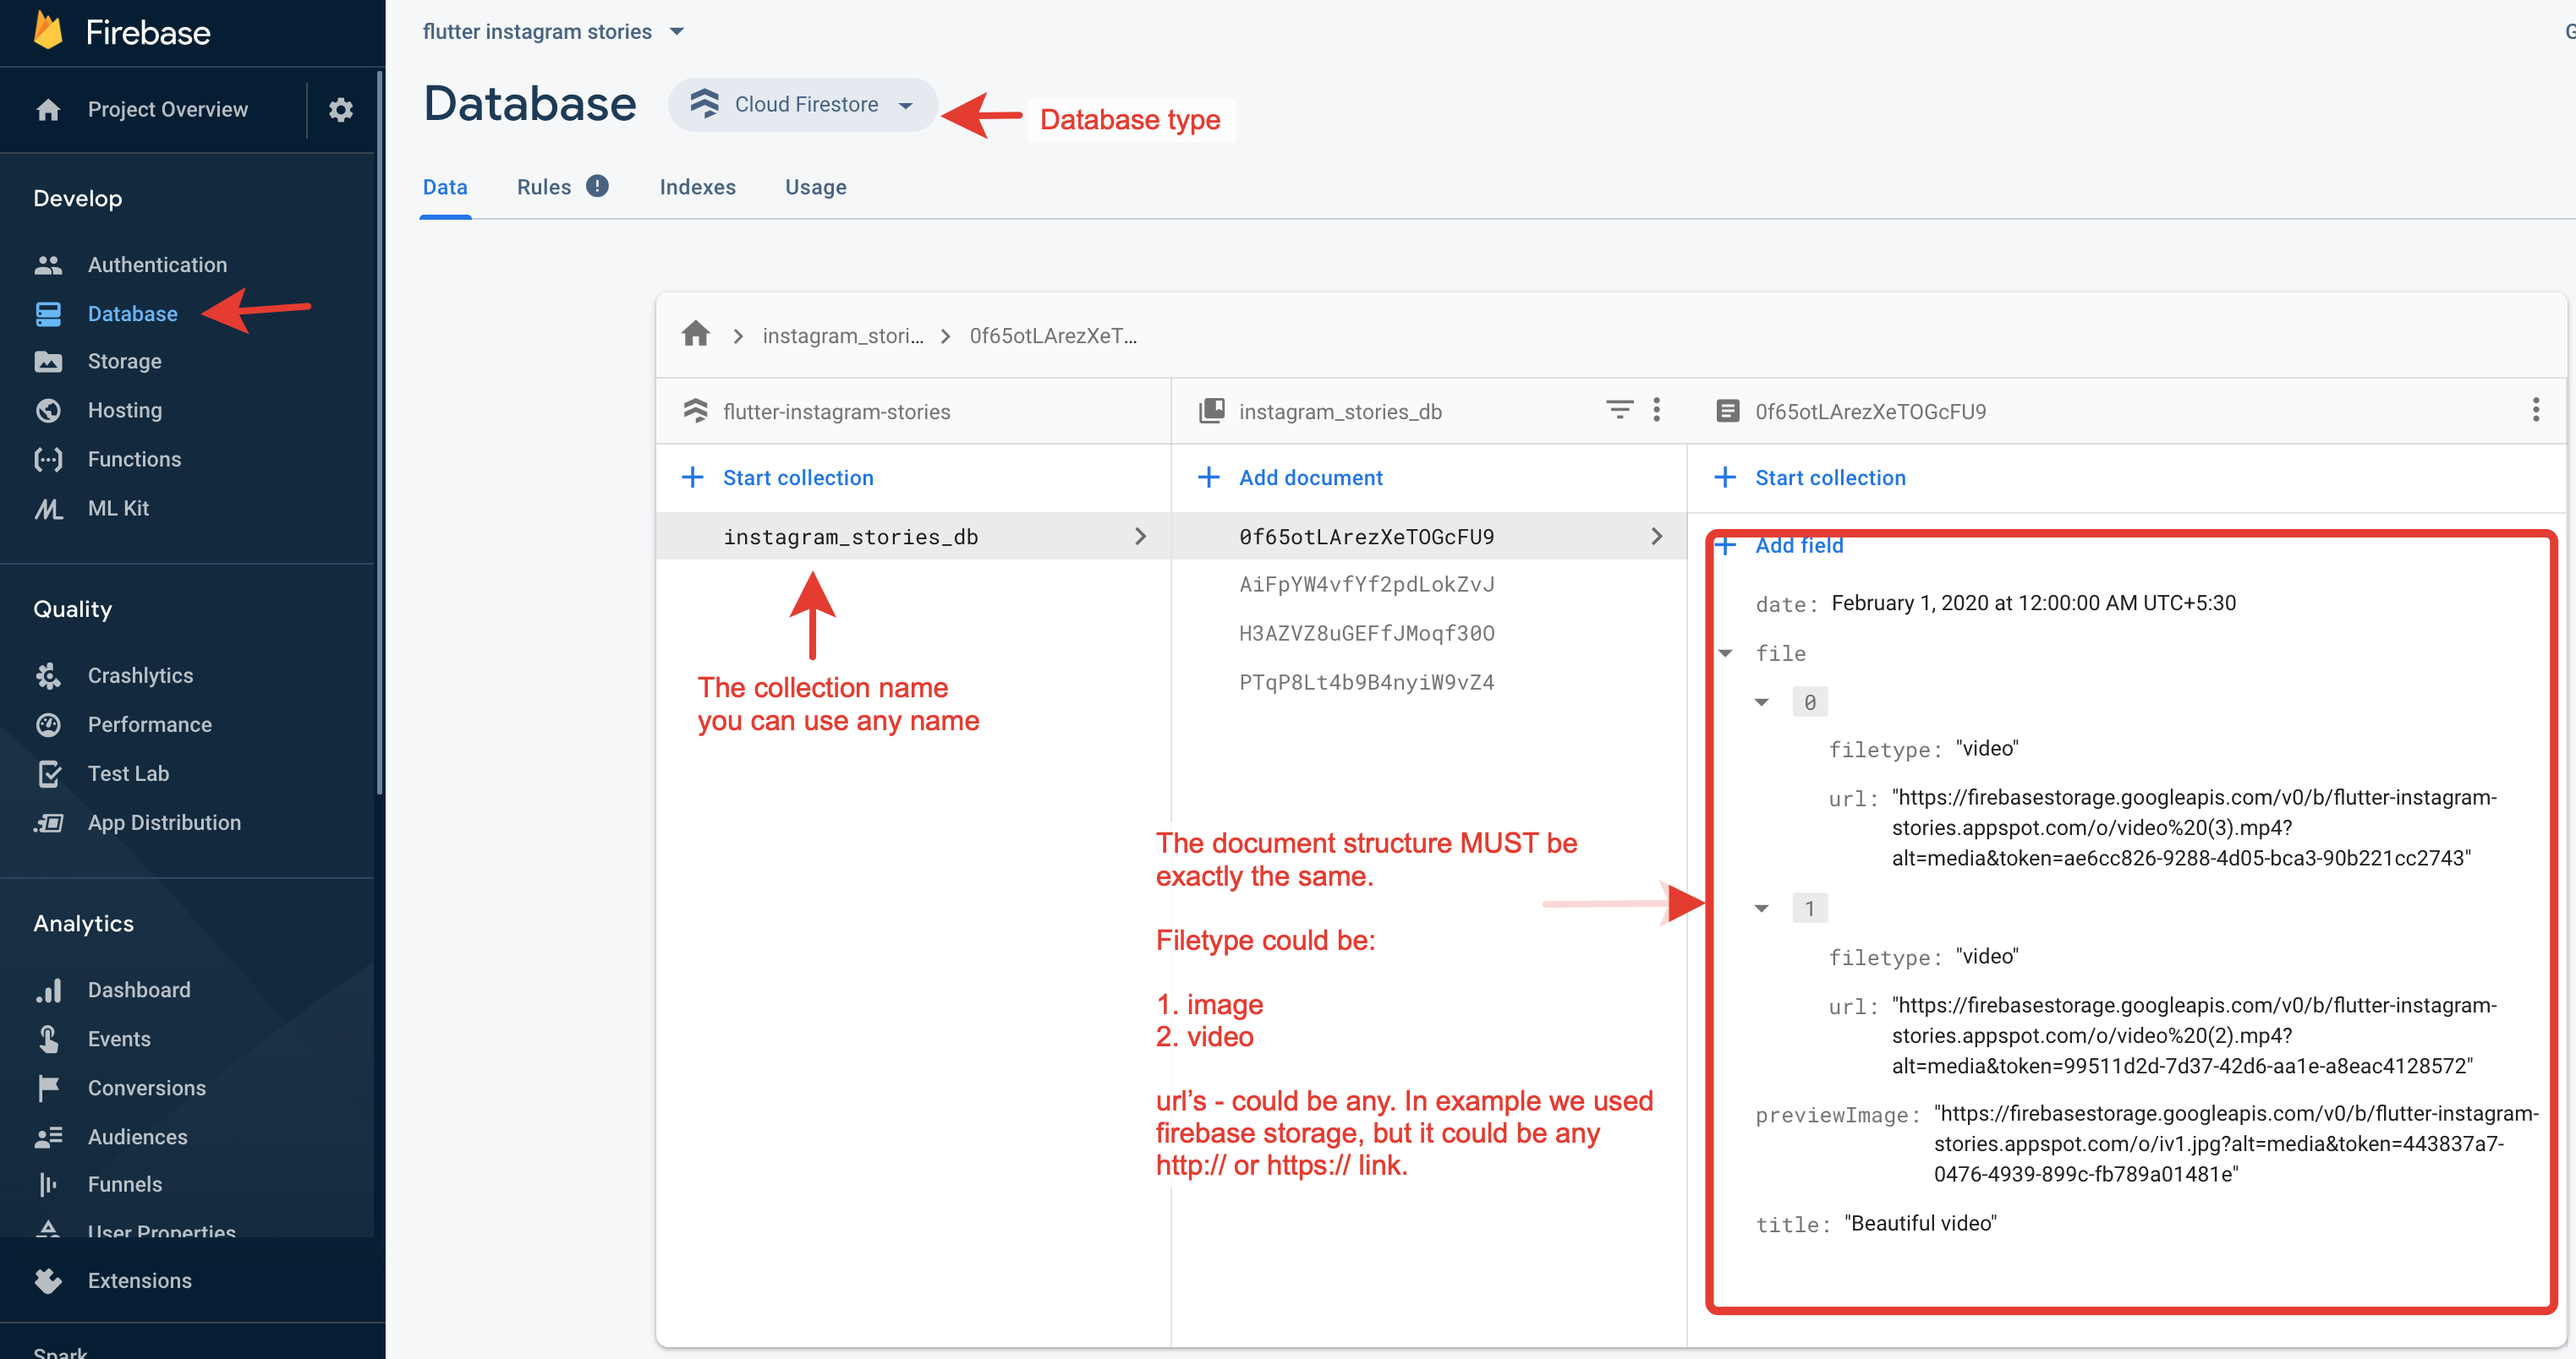
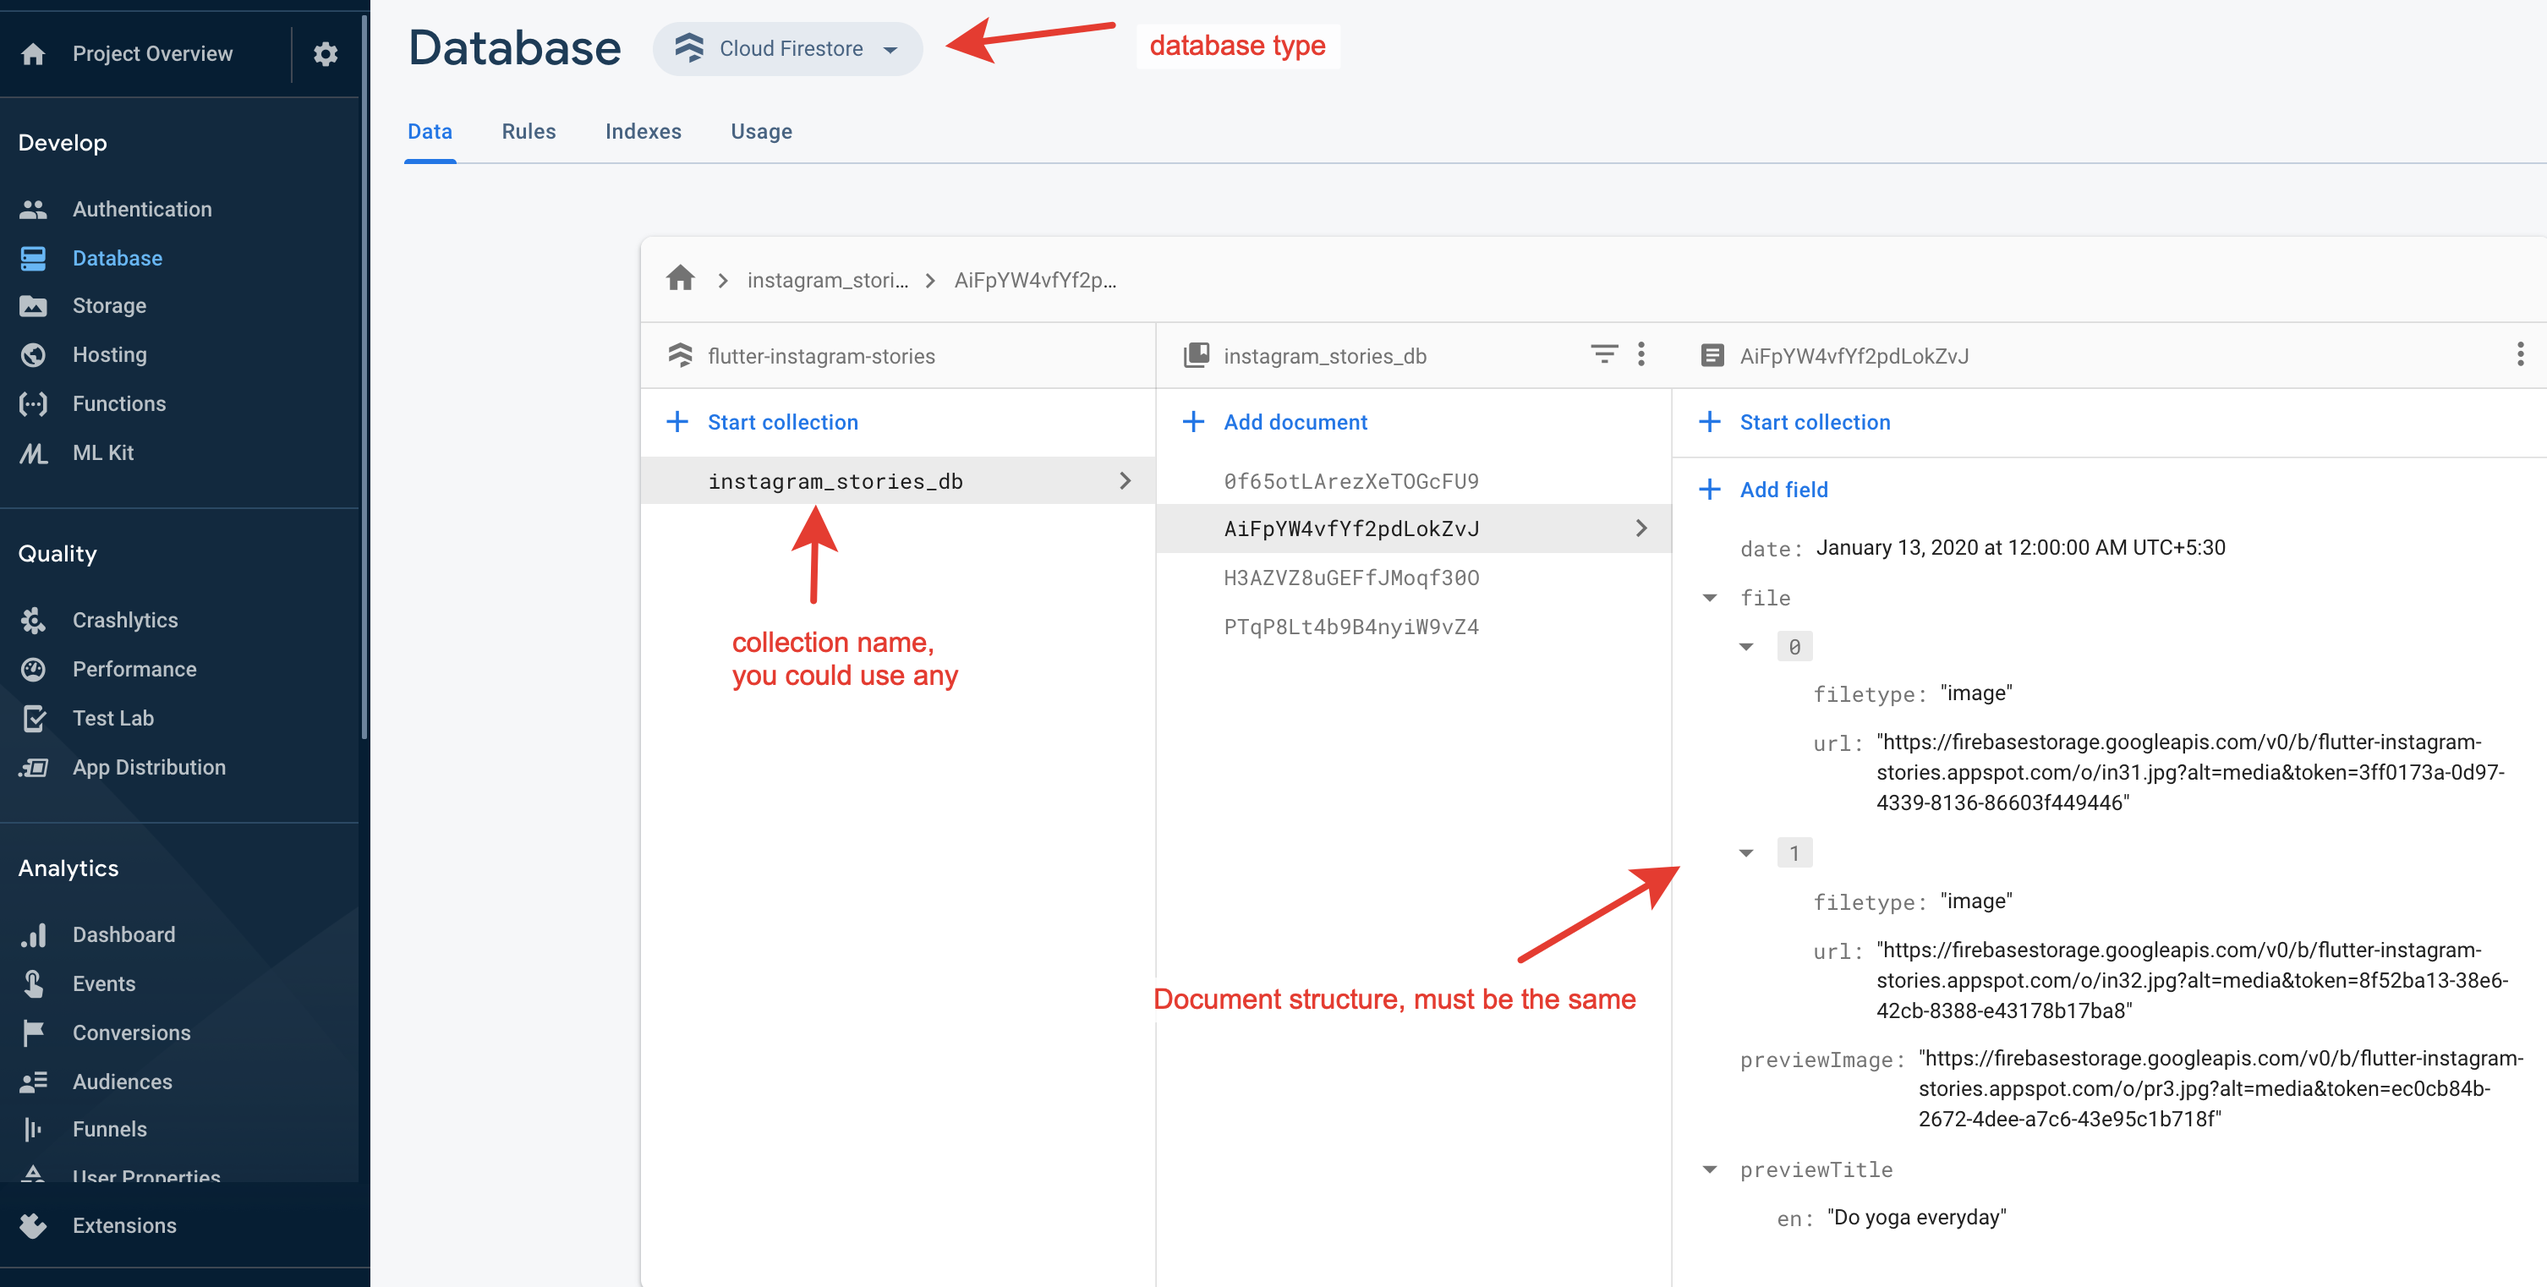
multilanguage support

diff --git a/lib/flutter_instagram_stories.dart b/lib/flutter_instagram_stories.dart
@@ -14,6 +14,7 @@ export 'grouped_stories_view.dart';
 class FlutterInstagramStories extends StatefulWidget {
   /// the name of collection in Firestore, more info here https://github.com/awaik/flutter_instagram_stories
   String collectionDbName;
+  String languageCode;
 
   ///
   bool showTitleOnIcon = true;
@@ -33,19 +34,20 @@ class FlutterInstagramStories extends StatefulWidget {
   //double fontSizeStory = 24;
   //bool showTitleInStory = true;
 
-  FlutterInstagramStories({
-    @required this.collectionDbName,
-    this.showTitleOnIcon,
-    this.fontSizeIcon,
-    this.iconWidth,
-    this.iconHeight,
-    this.imageStoryDuration,
-    this.progressPosition = ProgressPosition.top,
-    this.repeat = true,
-    this.inline = false,
-    //this.fontSizeStory,
-    //this.showTitleInStory,
-  });
+  FlutterInstagramStories(
+      {@required this.collectionDbName,
+      this.showTitleOnIcon,
+      this.fontSizeIcon,
+      this.iconWidth,
+      this.iconHeight,
+      this.imageStoryDuration,
+      this.progressPosition = ProgressPosition.top,
+      this.repeat = true,
+      this.inline = false,
+      this.languageCode = 'en'
+      //this.fontSizeStory,
+      //this.showTitleInStory,
+      });
 
   @override
   _FlutterInstagramStoriesState createState() =>
@@ -100,6 +102,8 @@ class _FlutterInstagramStoriesState extends State<FlutterInstagramStories> {
             );
           }
           final stories = snapshot.data.documents;
+          print(
+              '++++++++++++++++++++++++++++++++++++++++++++++++++22222 ${stories[0]}');
           _storiesData.parseStoriesPreview(stories);
           List<Stories> storyWidgets = _storiesData.storyWidgets;
           // the variable below is for passing stories ids to screen Stories
@@ -111,6 +115,8 @@ class _FlutterInstagramStoriesState extends State<FlutterInstagramStories> {
             itemCount: storyWidgets == null ? 0 : stories.length,
             itemBuilder: (BuildContext context, int index) {
               Stories story = storyWidgets[index];
+              print(
+                  '++++++++++++++++++++++++++++++++++++++++++++++++++11 ${story.toJson()}');
 
               return Padding(
                 padding: EdgeInsets.only(left: 20),
@@ -150,7 +156,7 @@ class _FlutterInstagramStoriesState extends State<FlutterInstagramStories> {
                                   right: 8.0,
                                   bottom: 8.0),
                               child: Text(
-                                story.title,
+                                story.previewTitle[widget.languageCode],
                                 style: TextStyle(
                                   fontWeight: FontWeight.bold,
                                   fontSize: widget.fontSizeIcon,

diff --git a/lib/models/stories.g.dart b/lib/models/stories.g.dart
@@ -14,8 +14,10 @@ Stories _$StoriesFromJson(Map<String, dynamic> json) {
         ?.map((e) =>
             e == null ? null : StoryData.fromJson(e as Map<String, dynamic>))
         ?.toList(),
-    title: json['title'] as String,
     previewImage: json['previewImage'] as String,
+    previewTitle: (json['previewTitle'] as Map<String, dynamic>)?.map(
+      (k, e) => MapEntry(k, e as String),
+    ),
   );
 }
 
@@ -23,6 +25,6 @@ Map<String, dynamic> _$StoriesToJson(Stories instance) => <String, dynamic>{
       'storyId': instance.storyId,
       'date': instance.date?.toIso8601String(),
       'file': instance.file?.map((e) => e?.toJson())?.toList(),
-      'title': instance.title,
       'previewImage': instance.previewImage,
+      'previewTitle': instance.previewTitle,
     };

diff --git a/lib/models/story_data.g.dart b/lib/models/story_data.g.dart
@@ -10,10 +10,13 @@ StoryData _$StoryDataFromJson(Map<String, dynamic> json) {
   return StoryData(
     filetype: json['filetype'] as String,
     url: json['url'] as String,
-  );
+  )..fileTitle = (json['fileTitle'] as Map<String, dynamic>)?.map(
+      (k, e) => MapEntry(k, e as String),
+    );
 }
 
 Map<String, dynamic> _$StoryDataToJson(StoryData instance) => <String, dynamic>{
       'filetype': instance.filetype,
       'url': instance.url,
+      'fileTitle': instance.fileTitle,
     };

diff --git a/lib/models/stories.dart b/lib/models/stories.dart
@@ -8,10 +8,15 @@ class Stories {
   String storyId;
   DateTime date;
   List<StoryData> file;
-  String title;
   String previewImage;
+  Map<String, String> previewTitle;
 
-  Stories({this.storyId, this.date, this.file, this.title, this.previewImage});
+  Stories(
+      {this.storyId,
+      this.date,
+      this.file,
+      this.previewImage,
+      this.previewTitle});
 
   factory Stories.fromJson(Map<String, dynamic> json) =>
       _$StoriesFromJson(json);

diff --git a/lib/models/stories_data.dart b/lib/models/stories_data.dart
@@ -22,8 +22,8 @@ class StoriesData {
         'date': DateTime.fromMillisecondsSinceEpoch(story.data['date'].seconds)
             .toIso8601String(),
         'file': jsonDecode(jsonEncode(story.data['file'])),
-        'title': story.data['title'],
         'previewImage': story.data['previewImage'],
+        'previewTitle': jsonDecode(jsonEncode(story.data['previewTitle'])),
       });
       if (storyData.file != null) {
         _storyWidgets.add(storyData);

diff --git a/lib/models/story_data.dart b/lib/models/story_data.dart
@@ -6,6 +6,7 @@ part 'story_data.g.dart';
 class StoryData {
   String filetype;
   String url;
+  Map<String, String> fileTitle;
 
   StoryData({this.filetype, this.url});
 

diff --git a/README.md b/README.md
@@ -23,12 +23,13 @@ Plugin can be used in any app for displaying news, educational content and etc.
 * Display images, gifs, videos
 * Adjustable titles on icons
 * Preliminary caching after app started
+* Mutilanguage support
 
 ## Installing
 
 ```yaml
 dependencies:
-  flutter_instagram_stories: ^0.0.1+1
+  flutter_instagram_stories: ^0.1.0
 ```
 
 Now in your Dart code, you can use:
@@ -85,6 +86,7 @@ And add stories full functionality to your app.
           progressPosition: ProgressPosition.top,
           repeat: true,
           inline: false,
+          languageCode: 'en',
         ),
       ),
 ```
@@ -93,7 +95,7 @@ And add stories full functionality to your app.
 
 Plugin works with Firestore database and package https://pub.dev/packages/cloud_firestore already included into plugin.
 
-You can use example with open database or create your own database.
+You can use example with sample database in example folder or create your own database.
 
 Steps to create:
 
@@ -114,8 +116,8 @@ Steps to create:
         String filetype;
         String url;
         ]
-    String title;
     String previewImage;
+    Map["en": someText, "anyLangCode": someText]
 ```
 
 ![Showcase|100x100, 10%](example/lib/collection_structure.png)

diff --git a/CHANGELOG.md b/CHANGELOG.md
@@ -1,3 +1,12 @@
+## 0.1.0
+
+* BREAKING CHANGE.
+  1. Added multilanguage support for preview images title.
+  2. For future changes added multilanguage fields to stories.
+* Changed example
+* Changed documentation
+
+
 ## 0.0.1+1
 
 * Fixed bug when Stories placed inside column
